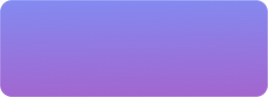
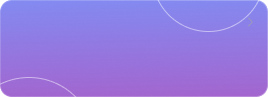
feat: Minify panel style.

diff --git a/packages/role-ai/src/pages/roleAI/adminLayer/charactersPanel/minimizedOverview/selectPrompt/SelectPrompt.tsx b/packages/role-ai/src/pages/roleAI/adminLayer/charactersPanel/minimizedOverview/selectPrompt/SelectPrompt.tsx
@@ -10,7 +10,7 @@ function SelectPrompt() {
   return (
     <div className={`${classes.selectPrompt} w-full h-full flex flex-col items-center`}>
       <div className={`${classes.img}`}></div>
-      <DDLSplitLine className=""></DDLSplitLine>
+      <DDLSplitLine line1Color="#0e111b" line2Color="#22242d"></DDLSplitLine>
       <div
         className={`${classes.btn} mt-4 w-full h-[41px] bg-[#3A71FF] rounded-[12px] flex justify-center items-center`}
       >

diff --git a/packages/role-ai/src/pages/roleAI/adminLayer/charactersPanel/minimizedOverview/selectPrompt/SelectPrompt.module.scss b/packages/role-ai/src/pages/roleAI/adminLayer/charactersPanel/minimizedOverview/selectPrompt/SelectPrompt.module.scss
@@ -3,13 +3,14 @@
   border: 2px solid #242424;
   box-shadow: 0px 4px 24px 0px #00000040;
   background: #121315;
+  background-image: url('/imgs/bg.png');
   padding: 0 30px;
 
   .img {
     background: url('/imgs/p.png');
-    width: 237px;
-    height: 127px;
-    margin-top: -34px;
+    width: 263px;
+    height: 155px;
+    margin-top: -80px;
   }
 
   .btn {
